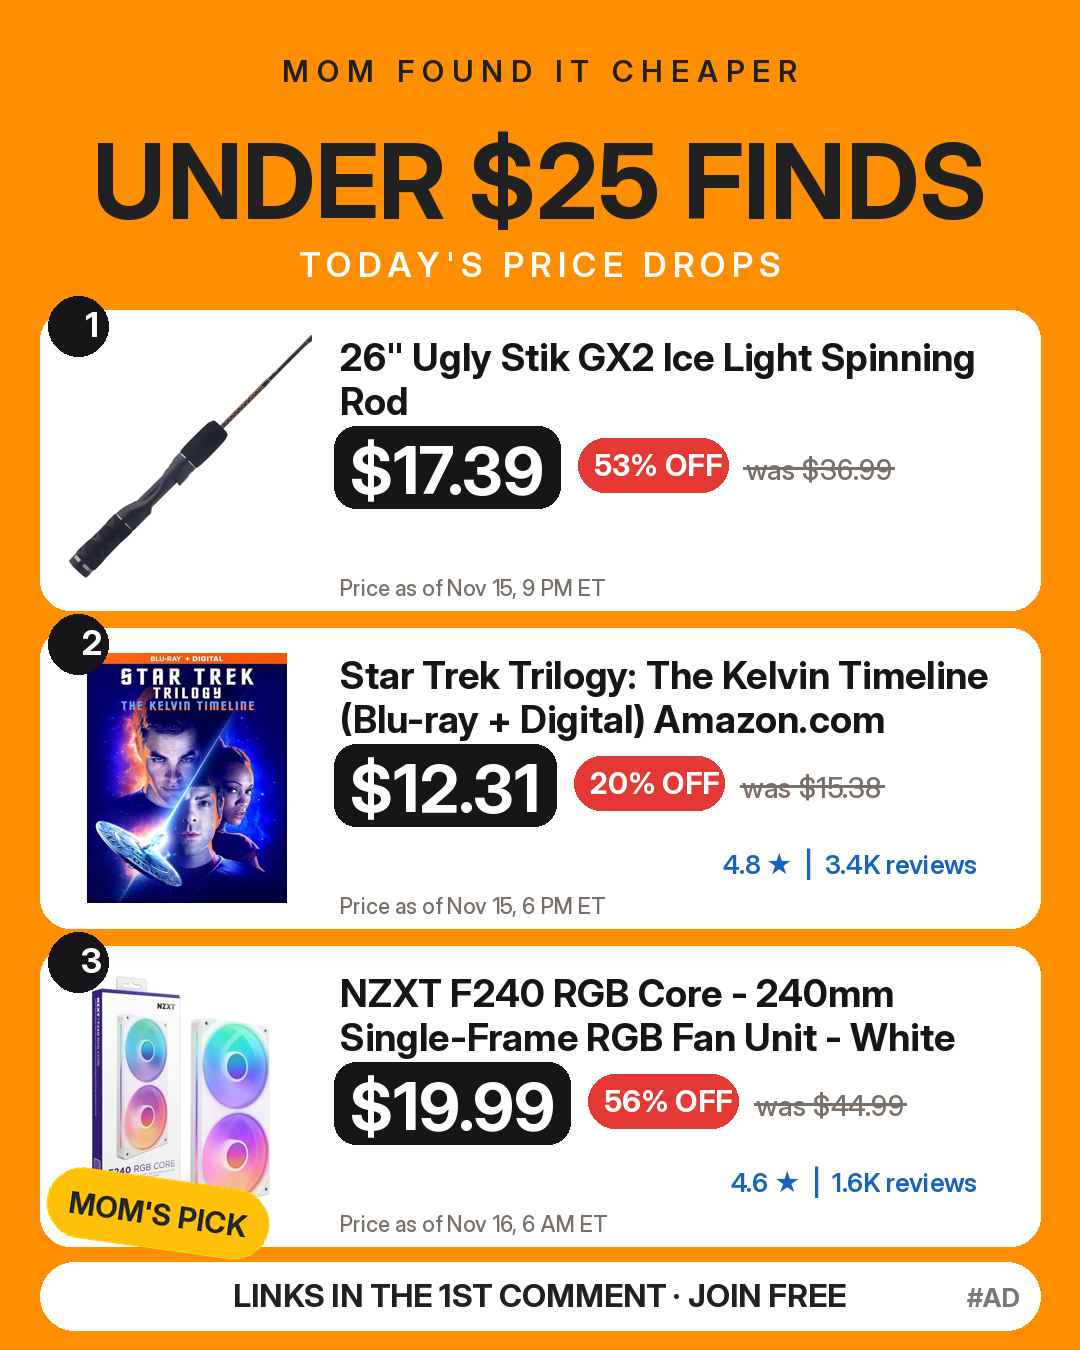
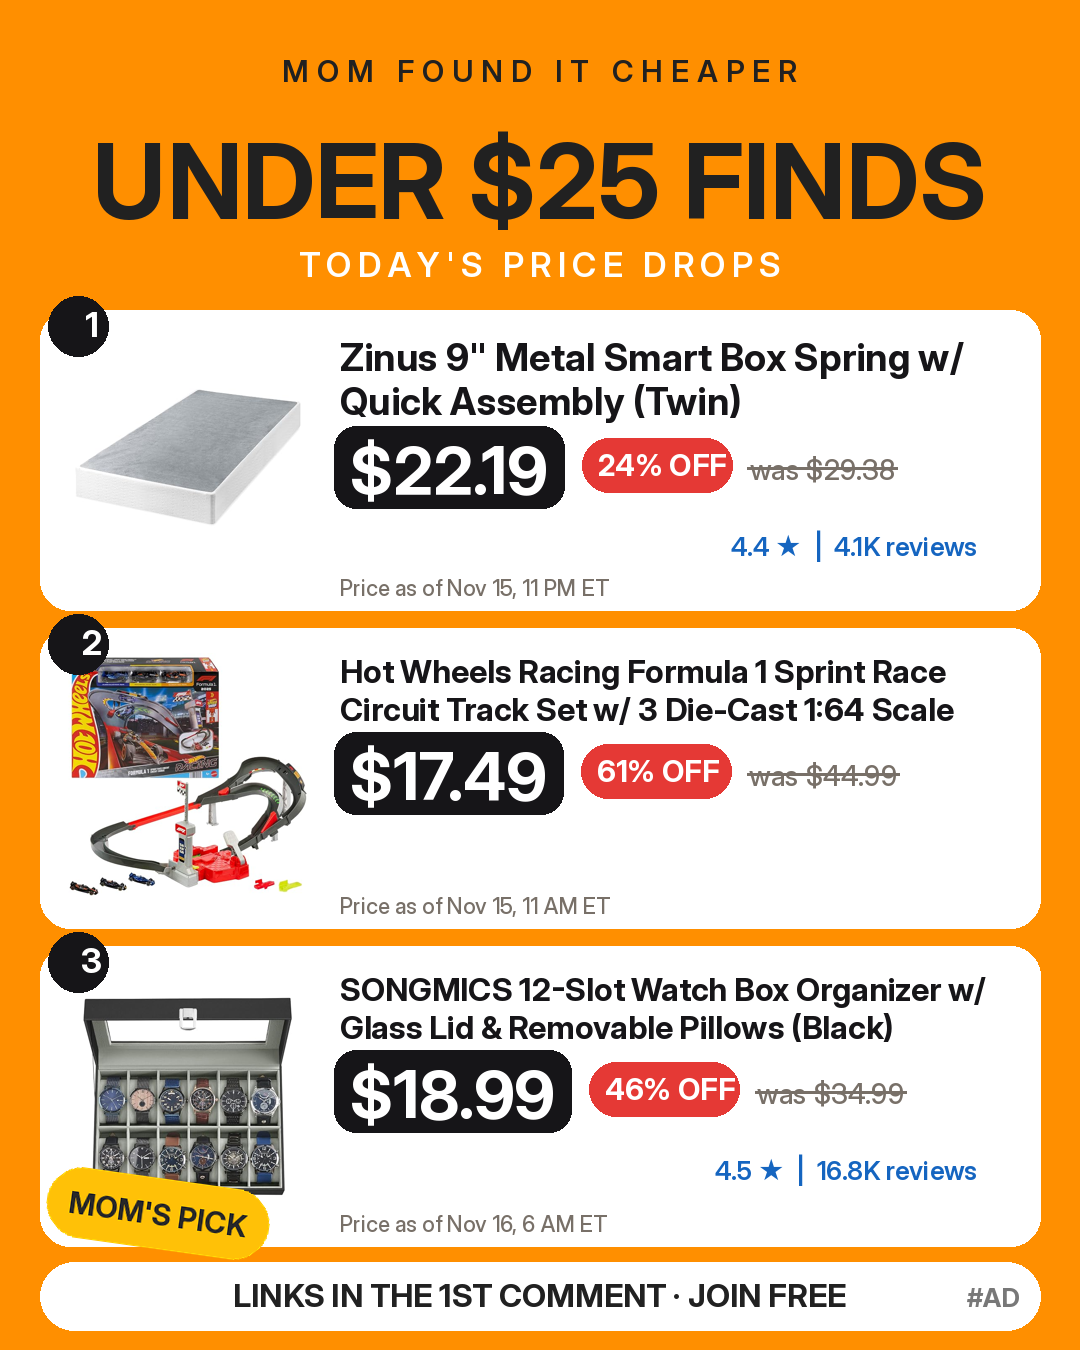
Post filters: reviews, price cap, brand cap, rating, coupon gap, stocking cap
Claude-Session: https://claude.ai/code/session_013VSLL9D9UfzTwCfefZ99QJ

diff --git a/make_posts.py b/make_posts.py
@@ -413,10 +413,11 @@ def mom_note(deal):
     m = META.get(deal.get("asin", "")) or {}
     off = pct_off(deal)
     if (m.get("reviews") or 0) >= 100 and (m.get("rating") or 0) >= 4.3:
-        return f"{m['rating']:.1f} stars from {m['reviews']:,} shoppers. I'd grab this one!"
+        n = m["reviews"]
+        return f"{m['rating']:.1f} stars, " + (f"{n/1000:.1f}K" if n >= 1000 else str(n)) + " reviews. I'd grab it!"
     if off >= 15:
-        return f"{off}% below the list price. Worth a look!"
-    return "Found this one for you. Check the price first!"
+        return f"{off}% below list. Worth a look!"
+    return "Found this for you. Check price!"
 
 
 def make_image_single(path, deal, cat="Everything else"):
@@ -755,6 +756,30 @@ def main():
     for _d in deals:
         _d["category"] = category_of(_d["title"])
         fix_price(_d)
+    def _ok(d):                                   # QA lessons: real reviews, sane price, no scraped tails
+        pv = price_value(d.get("price", "")) or 0
+        if pv > 150:
+            return False
+        if is_amazon(d):
+            rv = (META.get(d.get("asin", "")) or {}).get("reviews") or 0
+            if rv < 50:
+                return False
+            mm = META.get(d.get("asin", "")) or {}
+            if mm.get("rating") and mm["rating"] < 3.8:
+                return False
+            nw = price_value(str(mm.get("now") or "")) if mm.get("now") else 0
+            if nw and pv and pv < nw * 0.7:
+                return False
+        d["title"] = re.sub(r"\s*(?:-|:|\|)?\s*Amazon(?:\.com)?\s*$", "", d["title"]).strip()
+        d["title"] = re.sub(r"^Amazon:\s*", "", d["title"])
+        return True
+    deals = [d for d in deals if _ok(d)]
+    BRANDS = set()
+    def brand(d):
+        w = re.sub(r"[^a-z0-9]", "", (tidy(d["title"]).split() or [""])[0].lower())
+        return w
+    def brand_ok(d):
+        return brand(d) not in BRANDS
     today_n = datetime.now(timezone.utc).toordinal()
     _raw = json.loads(MADE_FILE.read_text()) if MADE_FILE.exists() else {}
     if isinstance(_raw, list):                       # old format: ids only -> treat as posted today
@@ -767,6 +792,13 @@ def main():
     for _old in WEB.glob("*.png"):
         _old.unlink()                       # website gallery shows only today's posts
     season = seasonal_groups(deals, made)
+    _s2 = []
+    for _ev, _th, _its in season:
+        if "stocking" in (str(_ev) + str(_th)).lower():
+            _its = [i for i in _its if (price_value(i.get("price", "")) or 99) <= 25]
+        if len(_its) >= 3:
+            _s2.append((_ev, _th, _its))
+    season = _s2
     for _ev, _th, _its in season:
         made.update(i["id"] for i in _its)
     _pg = price_groups(deals, made)
@@ -791,6 +823,7 @@ def main():
         caption, comment = texts(theme, items)
         (OUT / f"post_{n}.txt").write_text(f"CAPTION:\n{caption}\n\nFIRST COMMENT (paste after posting):\n{comment}\n")
         made.update(i["id"] for i in items)
+        BRANDS.update(brand(i) for i in items)
         MANIFEST.append(dict(file=f"post_{n}", kind="group", theme=theme, items=[_mf(i) for i in items]))
         WEB.mkdir(exist_ok=True)
         (WEB / f"post_{n}.png").write_bytes((OUT / f"post_{n}.png").read_bytes())
@@ -799,12 +832,13 @@ def main():
     # one extra single-product "Mom's pick" post: best-reviewed item with a photo
     used = {i["id"] for _, its, _t in groups for i in its}
     pool = [d for d in deals if d["id"] not in used and pct_off(d) >= 10 and is_amazon(d) and ((META.get(d.get("asin", "")) or {}).get("reviews") or 0) >= 100 and find_photo(d) and not qa_check(d)[0] 
-            and price_value(d.get("price", "")) and not any(w in d["title"].lower() for w in SKIP_WORDS)]
+            and price_value(d.get("price", "")) and brand_ok(d) and not any(w in d["title"].lower() for w in SKIP_WORDS)]
     if pool:
         pool.sort(key=lambda x: x["id"])
         star = pool[datetime.now(timezone.utc).toordinal() % len(pool)]   # rotates daily
         cat = star.get("category", "Everything else")
         PALETTES["_s"] = ROT[datetime.now(timezone.utc).toordinal() % len(ROT)]
+        BRANDS.add(brand(star))
         make_image_single(OUT / "post_single.png", star, "_s")
         nm = tidy(short_title(no_price_title(star["title"])))
         cap = (f"Mom's pick today: {nm}.\n{mom_note(star)}\nLink is in the first comment. Join Mom Found It Cheaper for a daily list.\n"
@@ -818,7 +852,7 @@ def main():
     # engagement post: THIS or THAT from two different, well-reviewed products
     used2 = used | ({star["id"]} if pool else set())
     cands = [d for d in deals if d["id"] not in used2 and pct_off(d) >= 10 and is_amazon(d) and d.get("asin") not in SEEN_ASIN
-             and find_photo(d) and not qa_check(d)[0] and price_value(d.get("price", ""))
+             and find_photo(d) and not qa_check(d)[0] and price_value(d.get("price", "")) and brand_ok(d) and _who(d) != "m"
              and not any(w in d["title"].lower() for w in SKIP_WORDS)]
     cands.sort(key=score, reverse=True)
     pair = None
@@ -840,6 +874,7 @@ def main():
         (OUT / "post_thisorthat.txt").write_text(f"CAPTION:\n{cap}\n\nFIRST COMMENT (paste after posting):\n{cm}\n")
         (WEB / "post_thisorthat.png").write_bytes((OUT / "post_thisorthat.png").read_bytes())
         SEEN_ASIN.update([a.get("asin"), b.get("asin")])
+        BRANDS.update([brand(a), brand(b)])
         MANIFEST.append(dict(file="post_thisorthat", kind="thisorthat", theme="THIS or THAT", items=[_mf(a), _mf(b)]))
         print("made post_thisorthat.png")
     # quick single-deal posts: every other good deal gets its own post (big groups post 20-90 a day)
@@ -854,9 +889,10 @@ def main():
         if qn >= QUICK_MAX:
             break
         k = product_key(d)
-        if k in seen_q:
+        if k in seen_q or not brand_ok(d) or _who(d) == "m":
             continue
         seen_q.add(k)
+        BRANDS.add(brand(d))
         qn += 1
         PALETTES["_q"] = ROT[(today_n + qn) % len(ROT)]
         f = f"post_q{qn}"

diff --git a/POST_QA.md b/POST_QA.md
@@ -1,39 +1,10 @@
 # Post QA
 
-## post_1 (Under $10 finds): ok with warnings
-- WARN: price $7.5 well below Amazon page $14.99 (coupon?): Prime Members: 16" x 12" Astercook Bambo
-- WARN: price $5.39 well below Amazon page $8.99 (coupon?): Vnaaem Reversible Football Christmas Wra
-## post_2 (Under $15 finds): ok with warnings
-- WARN: price $13.05 well below Amazon page $23.74 (coupon?): Prime Members: 4-Pc ZEAGUS Metal Hand Gr
-- WARN: price $8.0 well below Amazon page $17.99 (coupon?): ThermoMaven F1 Stealth Digital Meat Ther
-## post_3 (Under $25 finds): BLOCKED
-- BLOCKER: claims 57% off without a valid list price: *HOT* Fairlife Protein Shakes 12-Pack Ju
-- WARN: price $19.8 well below Amazon page $29.99 (coupon?): ORICO 7-in-1 GaN USB Travel Power Strip 
-## post_4 (Black Friday early under $60): ok
-## post_5 (Stocking stuffers): BLOCKED
-- WARN: price $8.55 well below Amazon page $16.14 (coupon?): Dokhbem 365nm 3-LED UV Black Light USB-C
-- BLOCKER: low rating 3.0: Apple AirPods Pro 3 Wireless Earbuds $18
-## post_6 (Top under $15): BLOCKED
-- WARN: price $7.99 well below Amazon page $12.99 (coupon?): 10' Hoto Self-Locking Retractable Tape M
-- BLOCKER: claims 41% off without a valid list price: Bible Journaling Kit Only $10 on Amazon 
-- BLOCKER: claims 45% off without a valid list price: Dinosaur Race Track Set Only $14.84 on A
-## post_7 (Tech under $150): ok
-## post_8 (Toy & game under $50): ok
-## post_9 (Home & kitchen worth a look): ok with warnings
-- WARN: price $42.81 well below Amazon page $67.81 (coupon?): [AC] $42.81 | DKNY On the Go 21" Hardshe
-## post_10 (Fashion under $25): ok
-## post_11 (Household under $20): ok
+## post_1 (Under $15 finds): ok
+## post_2 (Under $25 finds): ok
+## post_3 (Top under $60): ok
 ## post_single (Mom's pick): ok
-## post_thisorthat (THIS or THAT): ok with warnings
-- WARN: price $11.3 well below Amazon page $24.99 (coupon?): 3-Port wegear 67W USB-C GaN Fast Charger
-- WARN: price $16.0 well below Amazon page $29.99 (coupon?): 3-Port wegear 100W USB-C Foldable GaN Wa
-## post_q1 (Quick deal: 24% OFF): ok
-## post_q2 (Quick deal: 20% OFF): ok
-## post_q3 (Quick deal: 23% OFF): ok
-## post_q4 (Quick deal: 31% OFF): ok
-## post_q5 (Quick deal: 33% OFF): ok
-## post_q6 (Quick deal: 44% OFF): ok
-## post_q7 (Quick deal: 55% OFF): ok
-## post_q8 (Quick deal: 38% OFF): ok
-## post_q9 (Quick deal: 40% OFF): ok
-## post_q10 (Quick deal: 35% OFF): ok
+## post_thisorthat (THIS or THAT): ok
+## post_q1 (Quick deal: 51% OFF): ok
+## post_q2 (Quick deal: 38% OFF): ok
+## post_q3 (Quick deal: 44% OFF): ok
